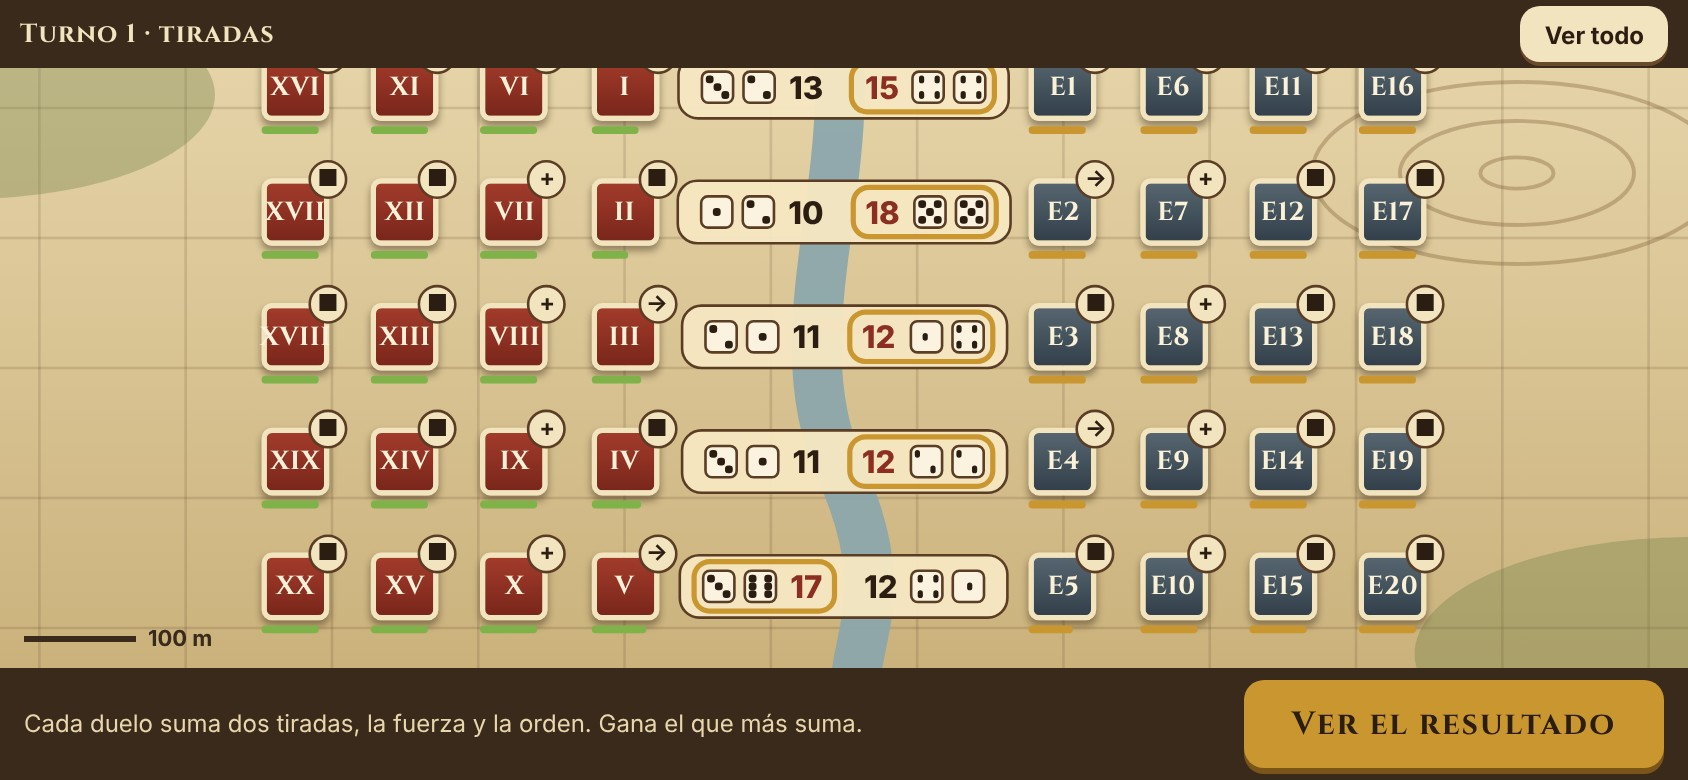
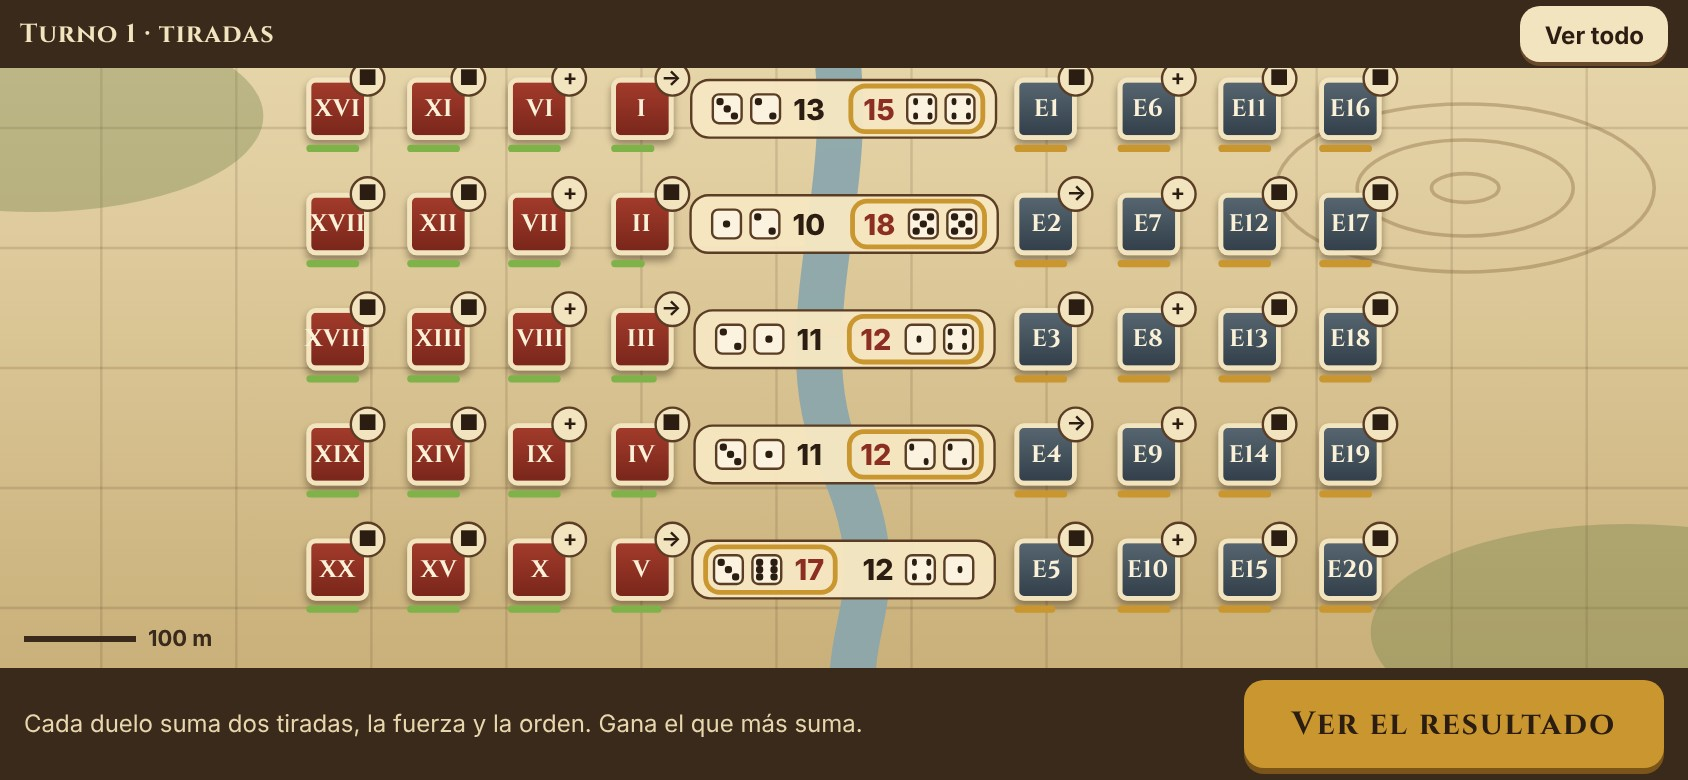
K6b: concursantes en curso (maquetas y capturas de K6b-2 y K6b-5)
Solo gobierno/maquetas/concurso4/.

Claude-Session: https://claude.ai/code/session_01QiKC37tiobNBApd9bhi8N3

diff --git a/gobierno/maquetas/concurso4/K6b-2-dados.html b/gobierno/maquetas/concurso4/K6b-2-dados.html
@@ -34,7 +34,7 @@ footer{height:56px;flex:none;display:flex;align-items:center;gap:12px;padding:0 
 
 /* Campo visto desde arriba: 1.500 m = 100 % del ancho */
 .campo{position:absolute;inset:0;transition:transform .35s ease}
-.campo.zoom{transform:scale(1.3)}
+.campo.zoom{transform:scale(1.2)}
 .campo.mini{position:relative;inset:auto;width:320px;height:160px;border:2px solid #5a3d24;border-radius:8px;overflow:hidden;flex:none;transition:none}
 .fondo{position:absolute;inset:0;width:100%;height:100%;display:block}
 .rej line{stroke:rgba(70,45,20,.14);stroke-width:1;vector-effect:non-scaling-stroke}
